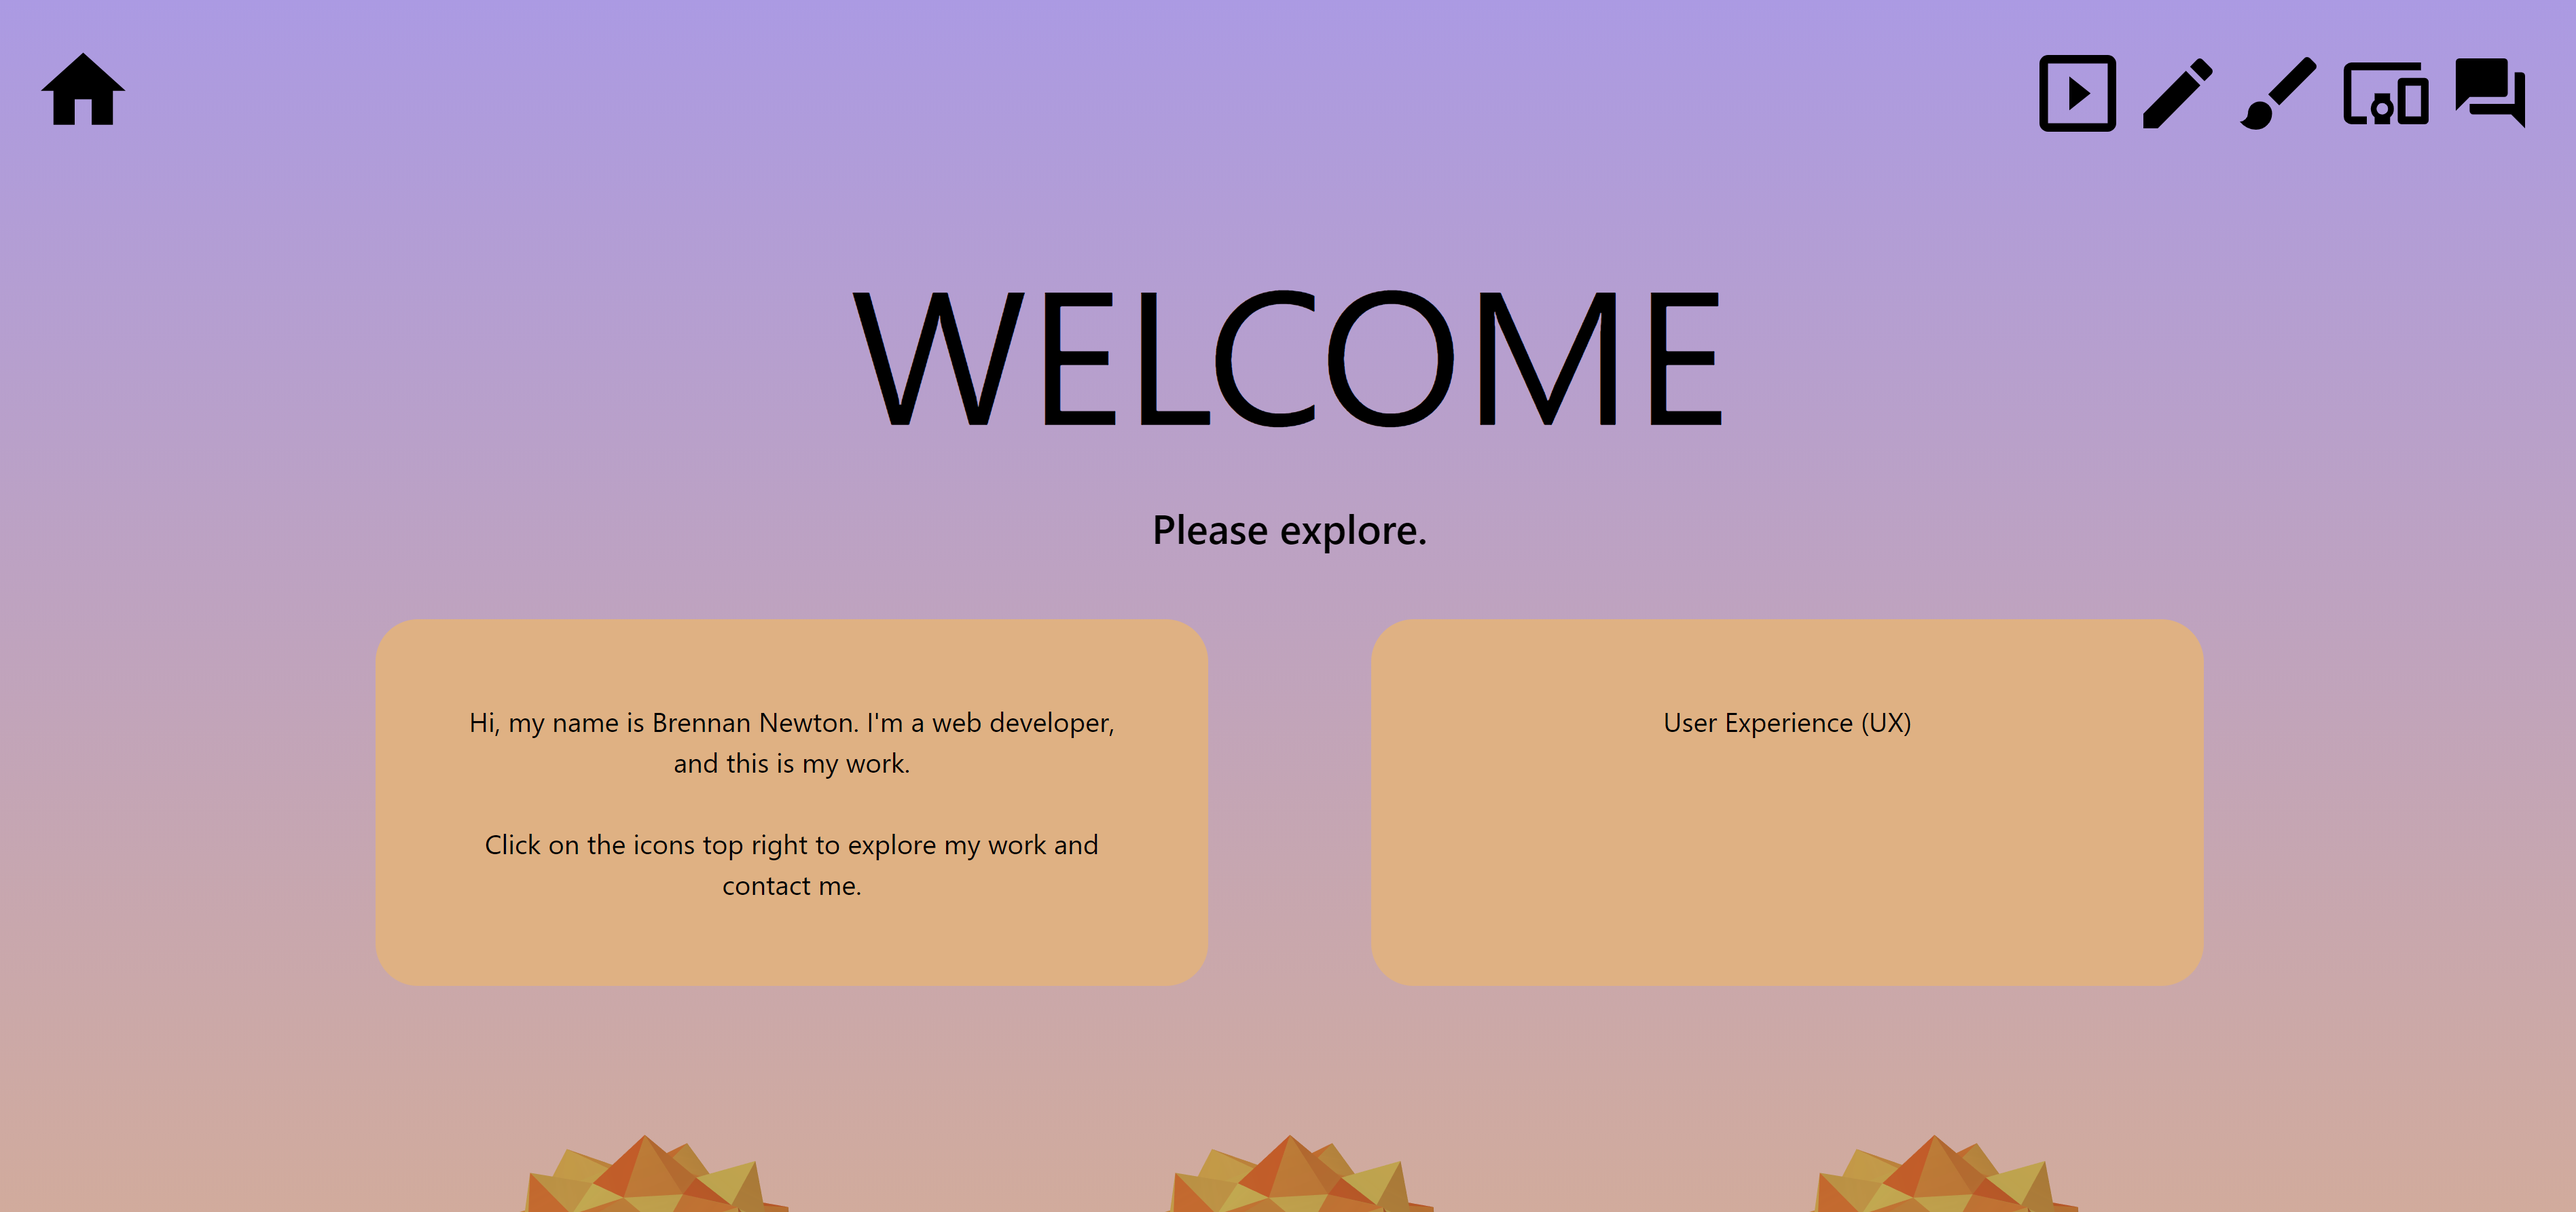
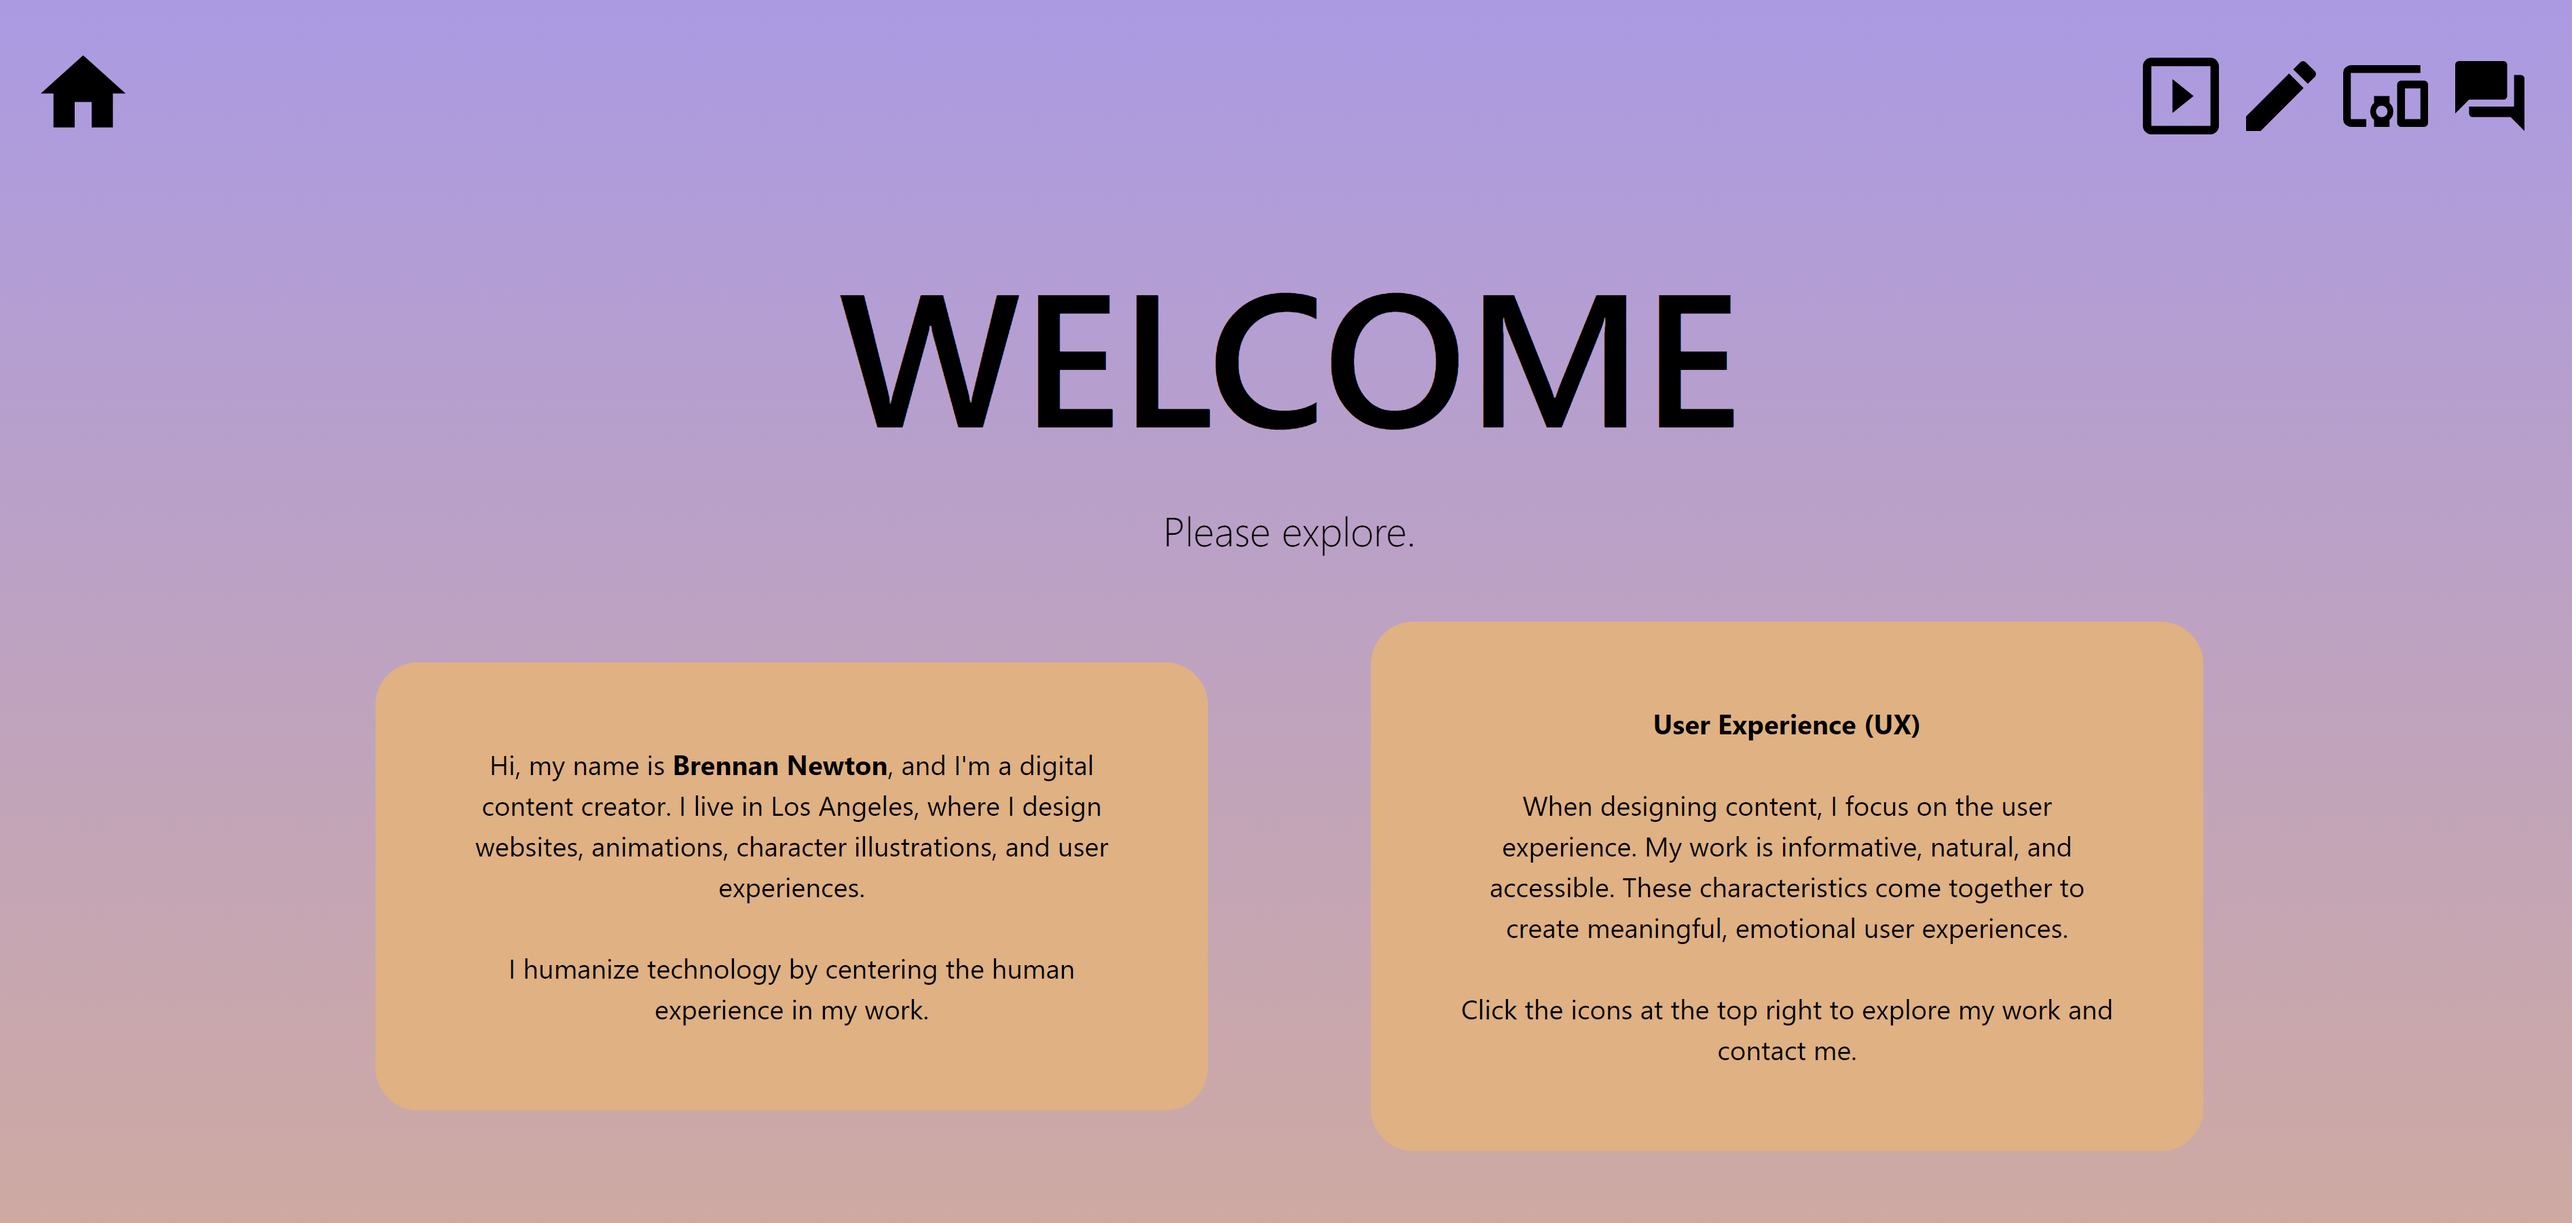
Homepage - spelling & concise language

diff --git a/react-bndesign/src/components/js/Home.js b/react-bndesign/src/components/js/Home.js
@@ -15,22 +15,24 @@ export default class Home extends React.Component {
         </Row>
         <h4 className="subtitle mb-3">Please explore.</h4>
         <Row className="justify-content-center m-auto mb-0 p-4 w-100">
-          <Col xs={8} md={4} className="mt-0 ml-5 mr-5 p-5 bio">
-            Hi, my name is <b>Brennan Newton</b>.
-            I live in Los Angeles, and I'm a digital content creator.
-            I design websites, animations, character illustrations, and user experiences.
+          <Col xs={8} md={4} className="align-self-center mt-0 ml-5 mr-5 p-5 bio">
+            Hi, my name is <b>Brennan Newton</b>, and I'm a digital content
+            creator. I live in Los Angeles, where I design websites, animations,
+            character illustrations, and user experiences.
             <br />
             <br />
-            Click the icons at the top right to explore my work and contact me.
+            I humanize technology by centering the human experience in my work.
           </Col>
-          <Col xs={8} md={4} className="mt-0 ml-5 mr-5 mb-0 p-5 ux">
+          <Col xs={8} md={4} className="align-self-center mt-0 ml-5 mr-5 mb-0 p-5 ux">
             <b>User Experience (UX)</b>
             <br />
             <br />
-            When designing content, I focus on the user experience.
-            I want my work to be informative, natural, and accessible.
-            I beleive these characteristics come together to create
-            meaninful and emotional user experiences.
+            When designing content, I focus on the user experience. My work is
+            informative, natural, and accessible. These characteristics come
+            together to create meaningful, emotional user experiences.
+            <br />
+            <br />
+            Click the icons at the top right to explore my work and contact me.
           </Col>
         </Row>
         <Row className="justify-content-center m-auto w-100">
